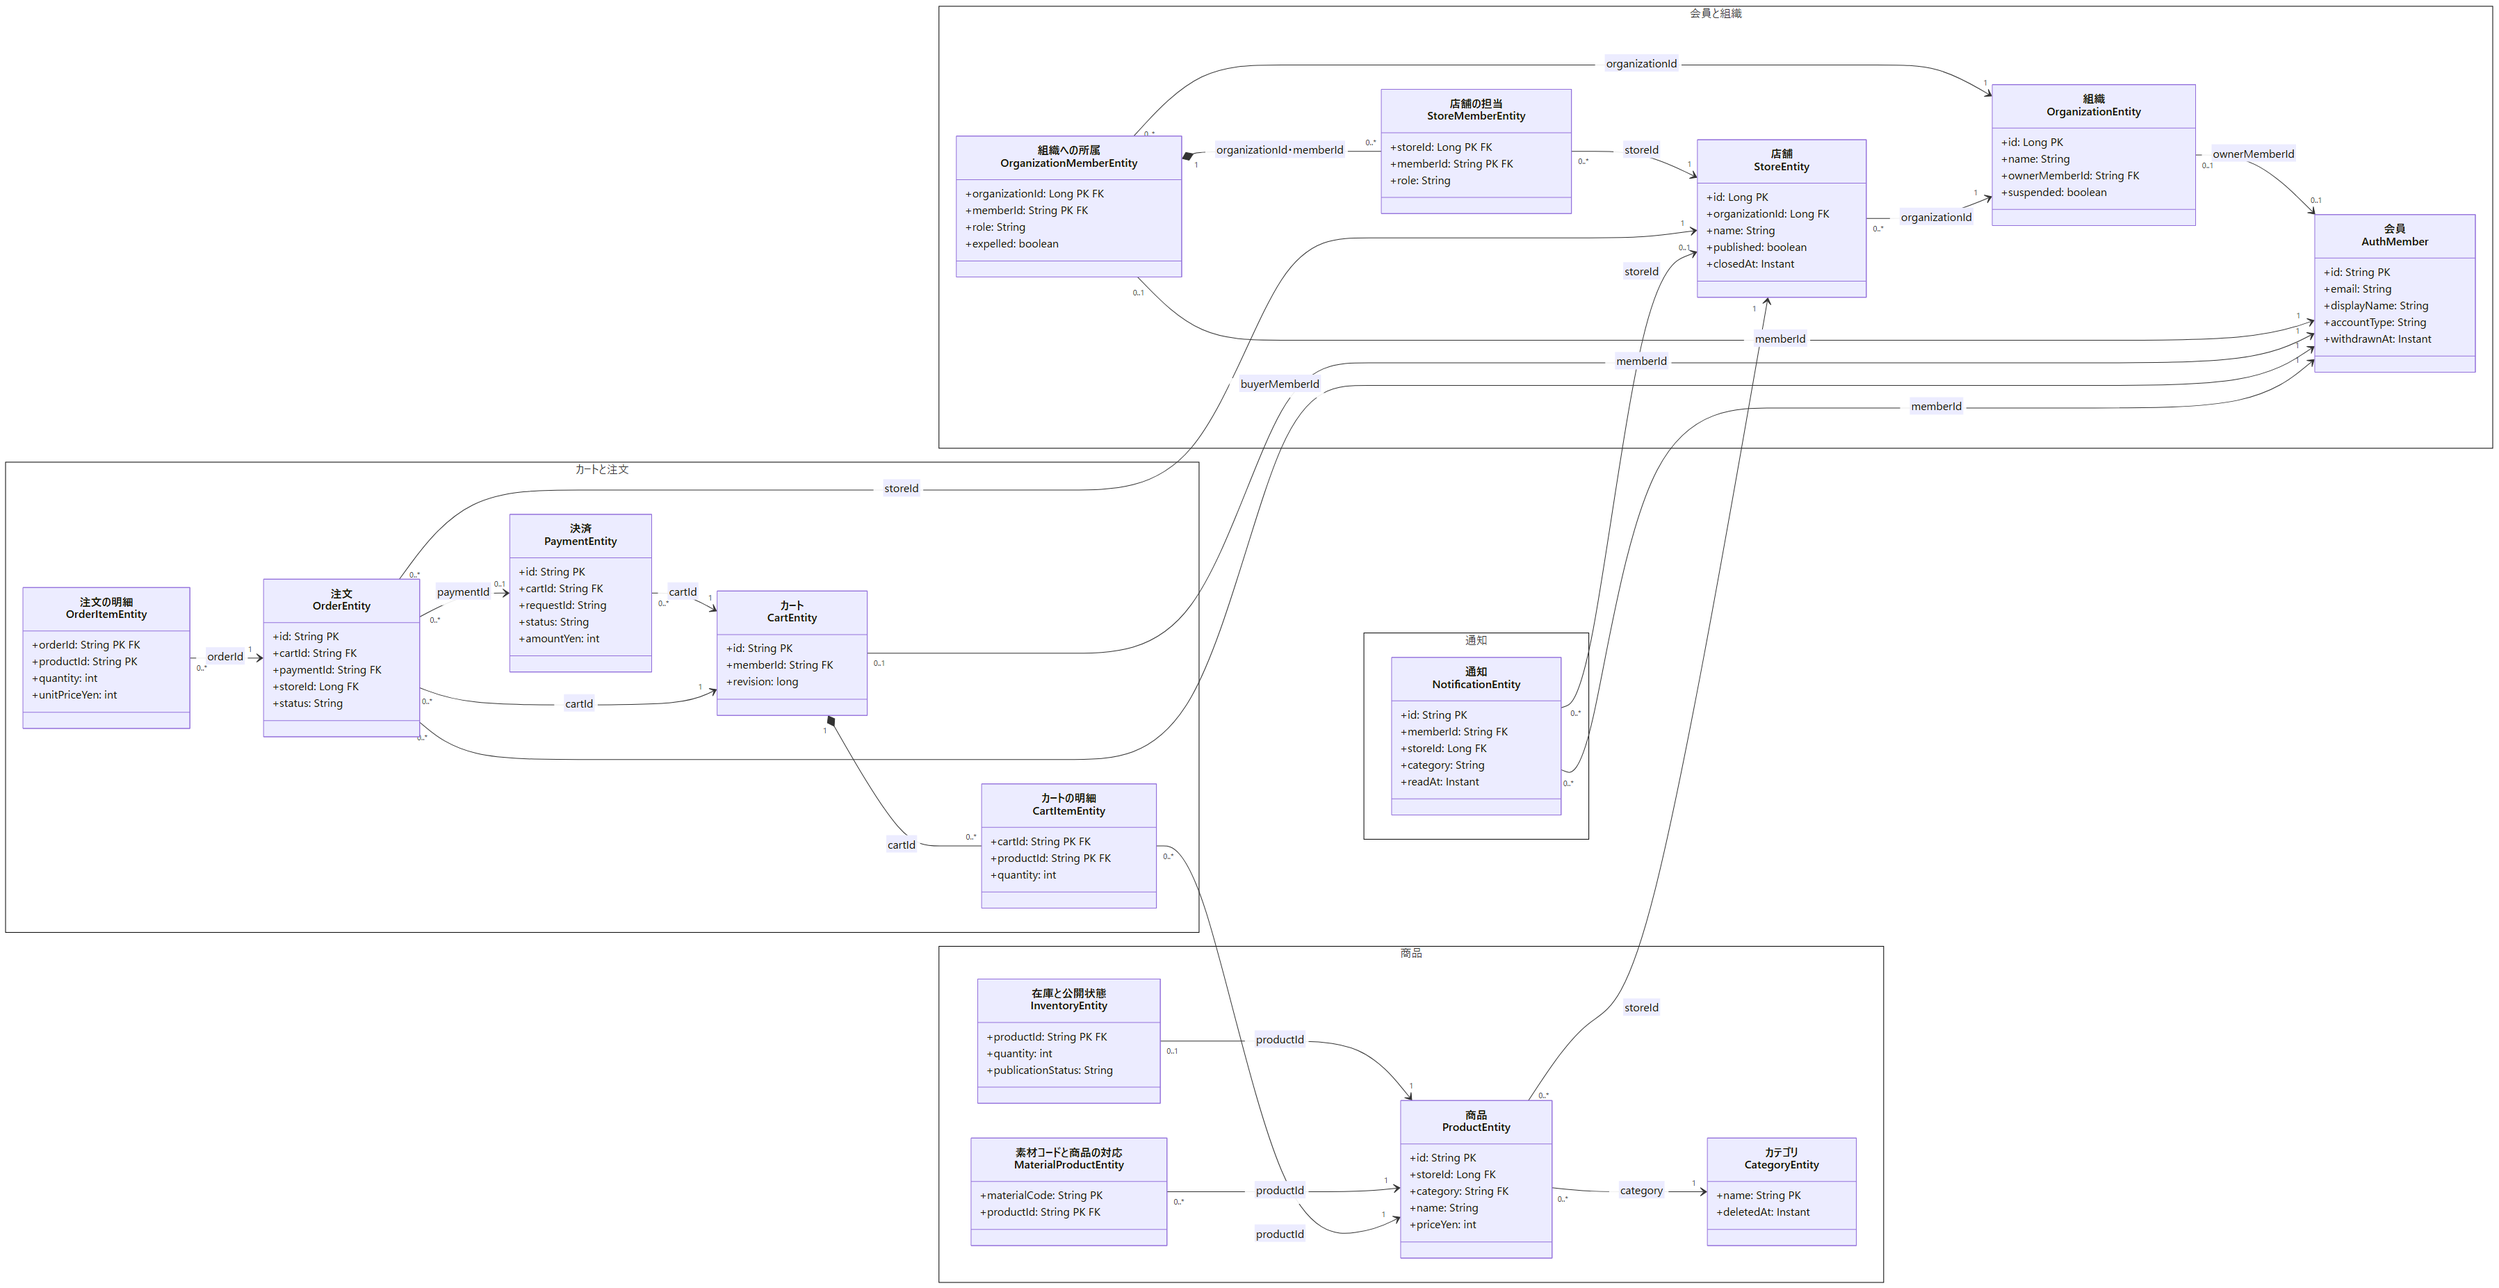
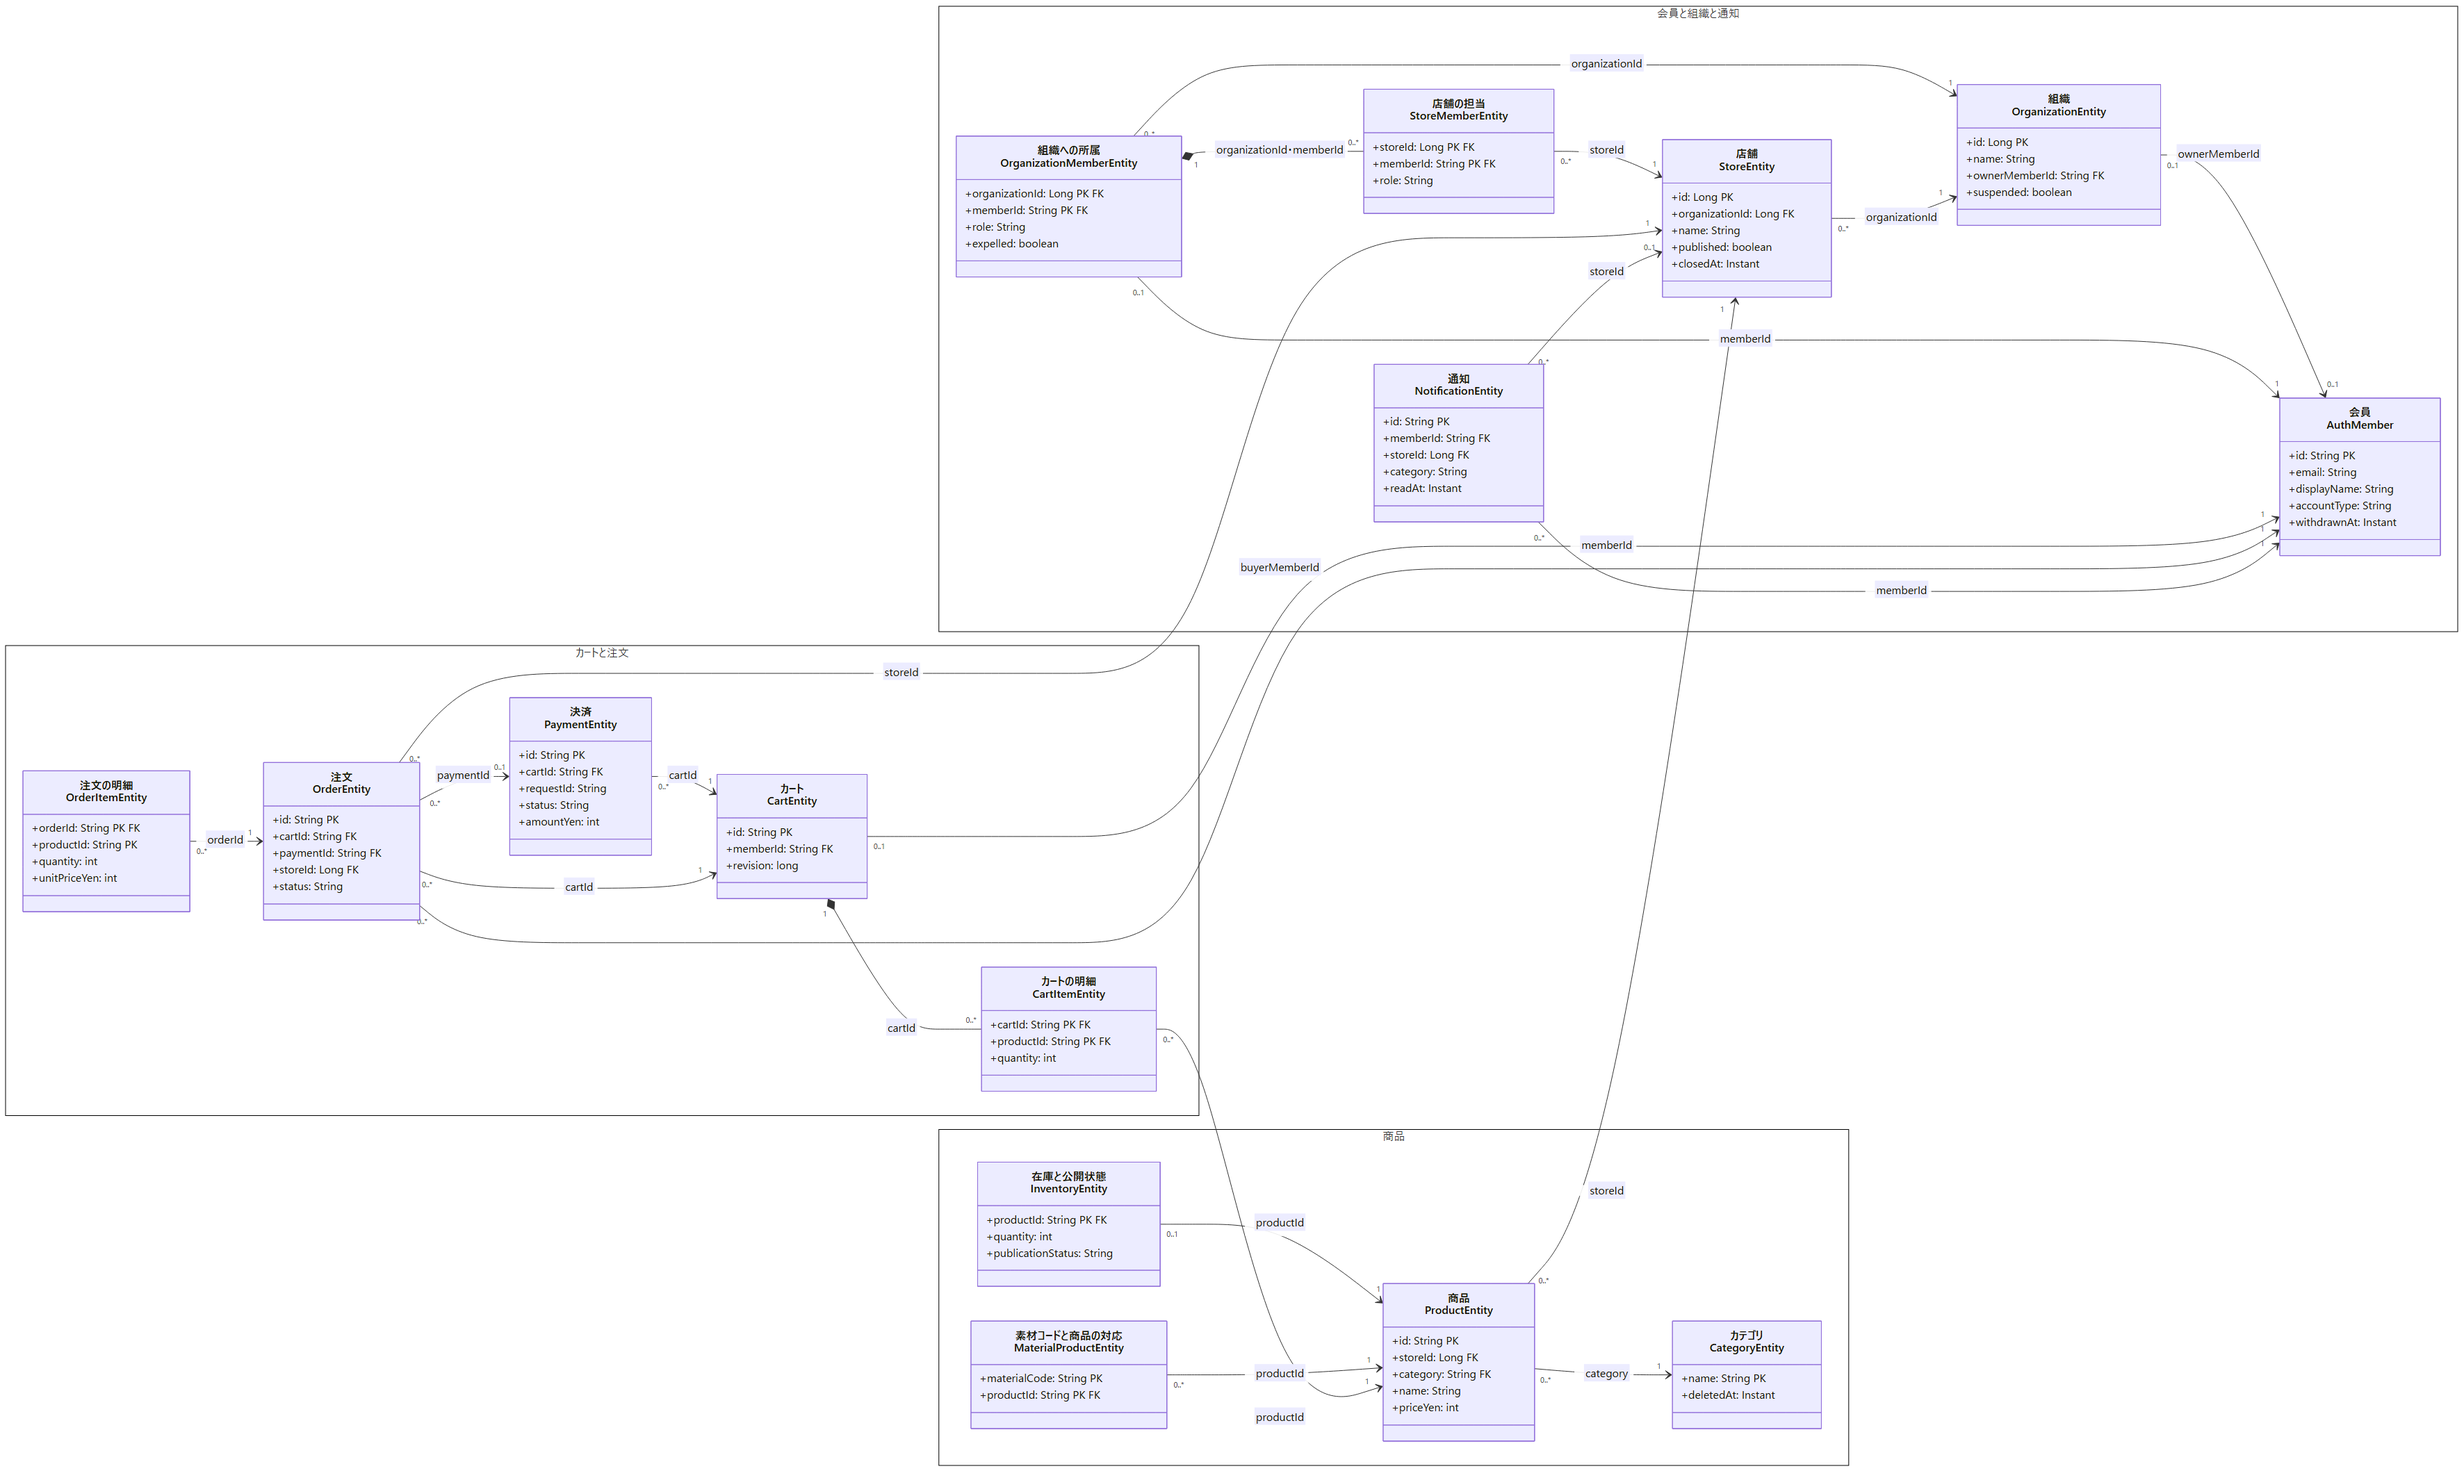
EC のクラス図で、通知を「会員と組織と通知」の枠に入れて 3 つのまとまりにする

diff --git a/クラス図/クラス図.md b/クラス図/クラス図.md
@@ -129,13 +129,13 @@ classDiagram
 
 ## Kusakari EC
 
-会員と組織・店舗、商品、カートと注文、通知の主な Entity です。Entity の間に JPA の関連の注釈はなく、線はすべて MySQL の外部キーです。
+会員と組織と通知、商品、カートと注文の 3 つのまとまりで分けた、主な Entity です。通知は会員と店舗に付くので、会員と組織の枠に入れました。Entity の間に JPA の関連の注釈はなく、線はすべて MySQL の外部キーです。
 
 ```mermaid
 classDiagram
     direction LR
 
-    namespace 会員と組織 {
+    namespace 会員と組織と通知 {
         class AuthMember["会員<br>AuthMember"] {
             +id: String PK
             +email: String
@@ -166,6 +166,13 @@ classDiagram
             +storeId: Long PK FK
             +memberId: String PK FK
             +role: String
+        }
+        class NotificationEntity["通知<br>NotificationEntity"] {
+            +id: String PK
+            +memberId: String FK
+            +storeId: Long FK
+            +category: String
+            +readAt: Instant
         }
     }
 
@@ -225,28 +232,16 @@ classDiagram
         }
     }
 
-    namespace 通知 {
-        class NotificationEntity["通知<br>NotificationEntity"] {
-            +id: String PK
-            +memberId: String FK
-            +storeId: Long FK
-            +category: String
-            +readAt: Instant
-        }
-    }
-
     OrganizationEntity "0..1" --> "0..1" AuthMember : ownerMemberId
     OrganizationMemberEntity "0..*" --> "1" OrganizationEntity : organizationId
     OrganizationMemberEntity "0..1" --> "1" AuthMember : memberId
     StoreEntity "0..*" --> "1" OrganizationEntity : organizationId
     StoreMemberEntity "0..*" --> "1" StoreEntity : storeId
     OrganizationMemberEntity "1" *-- "0..*" StoreMemberEntity : organizationId・memberId
-
     ProductEntity "0..*" --> "1" StoreEntity : storeId
     ProductEntity "0..*" --> "1" CategoryEntity : category
     InventoryEntity "0..1" --> "1" ProductEntity : productId
     MaterialProductEntity "0..*" --> "1" ProductEntity : productId
-
     CartEntity "0..1" --> "1" AuthMember : memberId
     CartEntity "1" *-- "0..*" CartItemEntity : cartId
     CartItemEntity "0..*" --> "1" ProductEntity : productId
@@ -256,7 +251,6 @@ classDiagram
     OrderEntity "0..*" --> "1" StoreEntity : storeId
     OrderEntity "0..*" --> "1" AuthMember : buyerMemberId
     OrderItemEntity "0..*" --> "1" OrderEntity : orderId
-
     NotificationEntity "0..*" --> "1" AuthMember : memberId
     NotificationEntity "0..*" --> "0..1" StoreEntity : storeId
 ```
